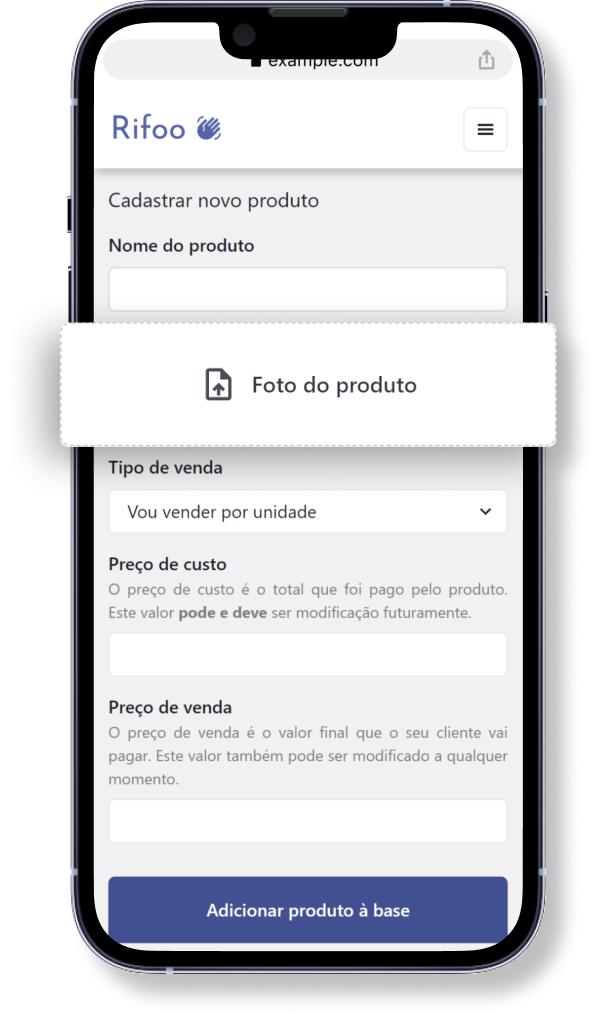
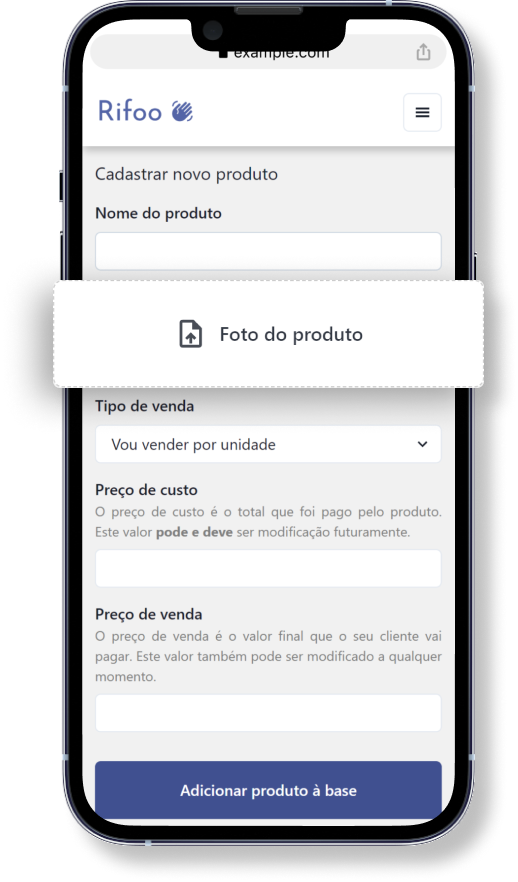
Avanço responsividade sec primeira venbda

diff --git a/src/components/Landing/PrimeiraVenda.tsx b/src/components/Landing/PrimeiraVenda.tsx
@@ -33,87 +33,91 @@ const PrimeiraVenda = () => {
             </Flex>
 
             <Flex
-                maxWidth="1180px"
-                background="#5465A7"
-                direction="column"
-                marginTop="40px"
-                borderBottom="1px solid #5465A7"
+                width="100%"
+                marginTop={["40px", "40px", "40px", "100px", "100px"]}
+                minHeight="450px"
 
-                borderRightRadius={['0px', '0px', '0px', '60px', '60px']}
-                position="relative"
+                gridGap="40px"
             >
                 <Flex
-                    width={280}
-                    height={487}
-                    mx="auto"
-                    mt="-40px"
-                    direction="column"
+                    maxWidth="1180px"
+                    background="#5465A7"
+
+                    direction={['column', 'column', 'column', 'row', 'row']}
+
+                    borderRightRadius={['0px', '0px', '0px', '60px', '60px']}
                     position="relative"
+
+                    justify="flex-end"
+                    align="center"
                 >
-                    <Image
-                        src="/celular01.png"
-                        alt="Celular acessando o Rifoo"
-                        width={280}
-                        height={487}
-                    />
+                    <Flex
+                        position={["relative", "relative", "relative", "absolute", "absolute"]}
+                        width={[431 / 1.6, 431 / 1.6, 431 / 1.6, 431 / 1.2, 431 / 1.2]}
+                        height={[845 / 1.8, 845 / 1.8, 845 / 1.8, 845 / 1.3, 845 / 1.3]}
+                        mx={['auto', 'auto', 'auto', '0', '0']}
+                        mt={["-50px", "-50px", "-50px", "initial", "initial"]}
+
+                        left={["0px", "0px", "0px", "12%", "12%"]}
+                    >
+                        <Image
+                            src="/celular01.png"
+                            alt="Celular acessando o Rifoo"
+                            layout="fill"
+                        />
+
+                        <Flex
+                            position="absolute"
+                            left={["-10", "-10", "-10", "100%", "100%"]}
+                            bottom={["-4", "-4", "-4", "28%", "28%"]}
+                        >
+                            <Text
+                                fontFamily="Poppins"
+                                fontSize={["200px", "200px", "200px", "300px", "300px"]}
+                                lineHeight={["200px", "200px", "200px", "300px", "300px"]}
+                                fontWeight={900}
+                                color="#fff"
+                                opacity="0.3"
+                            >
+                                1
+                            </Text>
+                        </Flex>
+                    </Flex>
 
                     <Flex
-                        position="absolute"
-                        left="-10"
-                        bottom="-4"
+                        width={["100%", "100%", "100%", "45%", "45%"]}
+                        mt="15px"
+                        mb="40px"
+                        direction="column"
+                        px="30px"
                     >
-                        <Text
-                            fontFamily="Poppins"
-                            fontSize="200px"
-                            lineHeight="200px"
-                            fontWeight={900}
+                        <Heading
+                            width="100%"
                             color="#fff"
-                            opacity="0.3"
+                            mx="auto"
+                            textTransform="uppercase"
+                            textAlign={["center", "center", "center", "left", "left"]}
+                            fontSize="26px"
                         >
-                            1
+                            Cadastre seu produto
+                        </Heading>
+
+                        <Text
+                            color="#fff"
+                            opacity={0.7}
+                            textAlign={["center", "center", "center", "left", "left"]}
+                            mt="10px"
+                            fontSize="14px"
+                            maxWidth={["100%", "100%", "100%", "85%", "85%"]}
+                        >
+                            Cadastrar um produto no RIFOO é tão simples quanto responder 4 perguntas. Em menos de 01 minuto você cadastra o seu primeiro produto e já está apto para começar a registrar as suas vendas.
                         </Text>
                     </Flex>
                 </Flex>
 
                 <Flex
-                    width="100%"
-                    mt="15px"
-                    mb="40px"
-                    direction="column"
-                >
-                    <Heading
-                        color="#fff"
-                        mx="auto"
-                        textTransform="uppercase"
-                        fontSize="26px"
-                    >
-                        Cadastre seu produto
-                    </Heading>
-
-                    <Text
-                        color="#fff"
-                        opacity={0.7}
-                        textAlign="center"
-                        px="30px"
-                        mt="10px"
-                        fontSize="14px"
-                    >
-                        Cadastrar um produto no RIFOO é tão simples quanto responder 4 perguntas. Em menos de 01 minuto você cadastra o seu primeiro produto e já está apto para começar a registrar as suas vendas.
-                    </Text>
-                </Flex>
-
-                <Flex
                     display={['none', 'none', 'none', 'none', 'flex']}
-
-                    position="absolute"
-                    right={-300}
-                    top={0}
-                    bottom={0}
-
                     maxWidth={300}
-                    px="30px"
-                    mb="35px"
-
                     align="center"
                 >
                     <Heading
@@ -145,15 +149,15 @@ const PrimeiraVenda = () => {
                     position="relative"
                 >
                     <Flex
-                        width={280}
-                        height={487}
+                        position="relative"
+                        width={431 / 1.6}
+                        height={845 / 1.8}
                         zIndex={1}
                     >
                         <Image
                             src="/celular02.png"
                             alt="Celular acessando o Rifoo"
-                            width={280}
-                            height={487}
+                            layout="fill"
                         />
                     </Flex>
 
